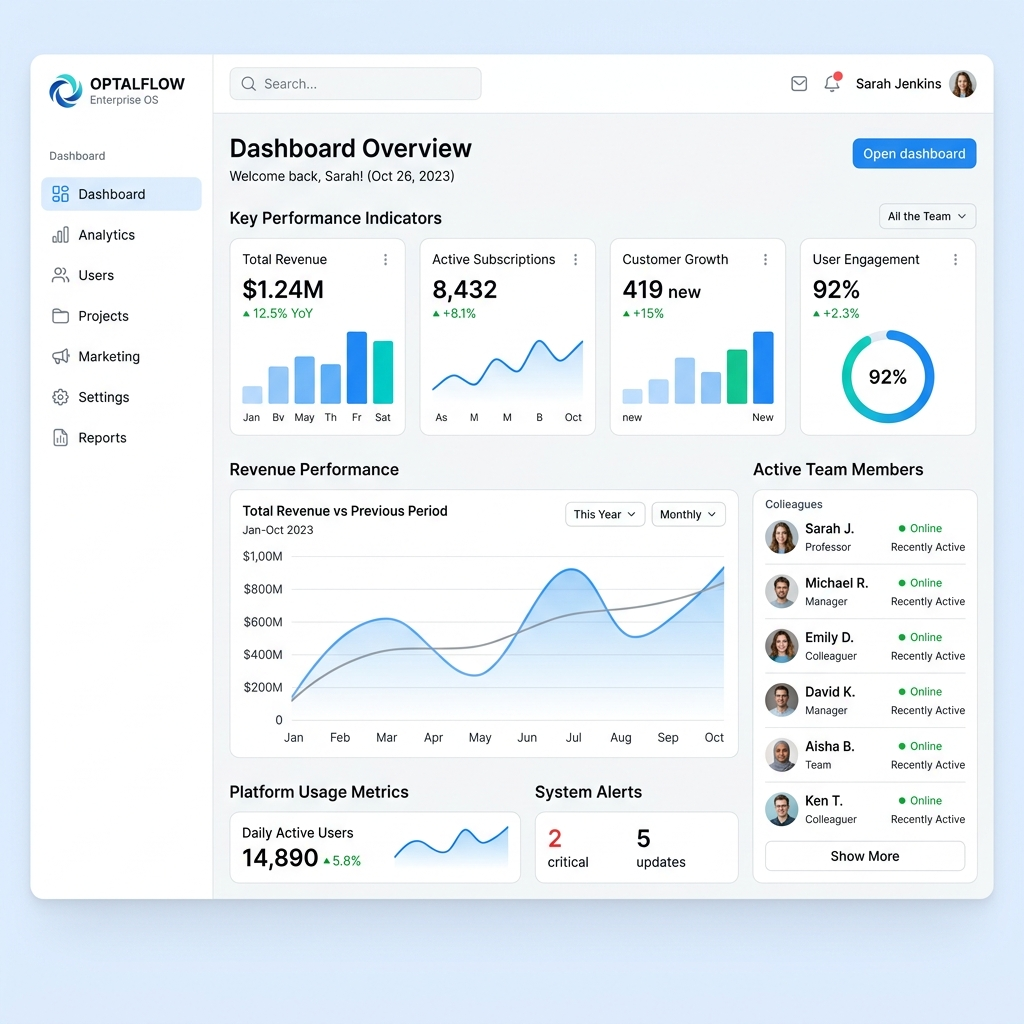
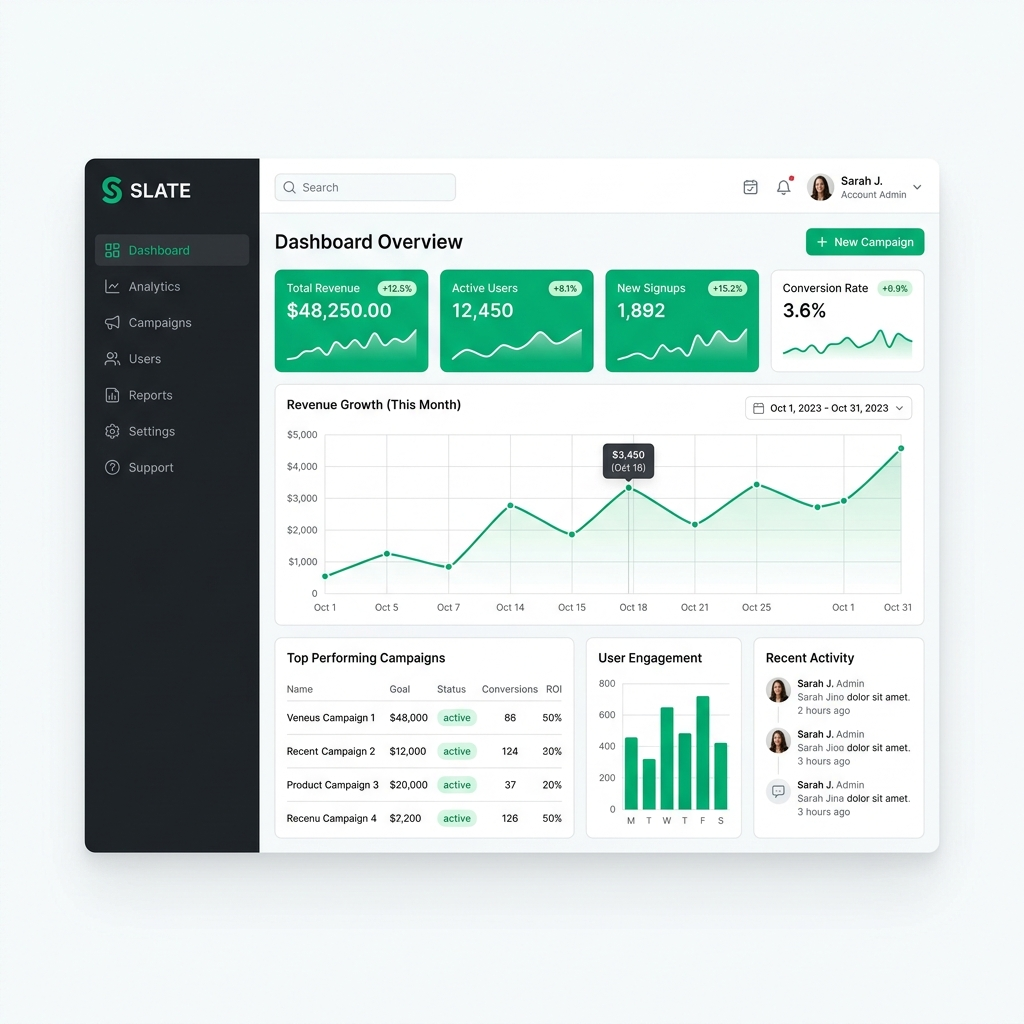
Remove excessive shadows from image cards and update hero dashboard UI image

diff --git a/src/pages/marketing/Home.jsx b/src/pages/marketing/Home.jsx
@@ -444,7 +444,7 @@ function SuitesSection() {
             onClick={() => setIsModalOpen(false)}
           ></div>
           
-          <div className="relative bg-white w-full max-w-4xl max-h-[90vh] rounded-[2rem] shadow-2xl overflow-hidden flex flex-col transform transition-all animate-in fade-in zoom-in-95 duration-200">
+          <div className="relative bg-white w-full max-w-4xl max-h-[90vh] rounded-[2rem] overflow-hidden flex flex-col transform transition-all animate-in fade-in zoom-in-95 duration-200">
             {/* Header */}
             <div className="flex-none p-6 sm:p-8 border-b border-slate-100 flex justify-between items-start bg-slate-50/50">
               <div>
@@ -583,7 +583,7 @@ export default function Home() {
 
           {/* Dashboard mockup */}
           <FadeIn delay="delay-500">
-            <div className="relative w-full max-w-6xl mx-auto h-[400px] md:h-[550px] rounded-2xl border border-slate-200/80 bg-slate-50 shadow-2xl overflow-hidden flex items-center justify-center">
+            <div className="relative w-full max-w-6xl mx-auto h-[400px] md:h-[550px] rounded-2xl border border-slate-200/80 bg-slate-50 overflow-hidden flex items-center justify-center">
               <img src="/images/hero_dashboard_ui.png" alt="Slate Dashboard Mockup" className="w-full h-full object-cover object-top" />
             </div>
           </FadeIn>
@@ -626,7 +626,7 @@ export default function Home() {
             </FadeIn>
 
             <FadeIn delay="delay-200">
-              <div className="relative rounded-2xl border border-slate-200/60 bg-white shadow-2xl overflow-hidden transform rotate-1 hover:rotate-0 transition-transform duration-500 group">
+              <div className="relative rounded-2xl border border-slate-200/60 bg-white overflow-hidden transform rotate-1 hover:rotate-0 transition-transform duration-500 group">
                 <img 
                   src="/images/orbit_dashboard_mockup.png" 
                   alt="Slate Dashboard featuring Orbit AI Panel" 
